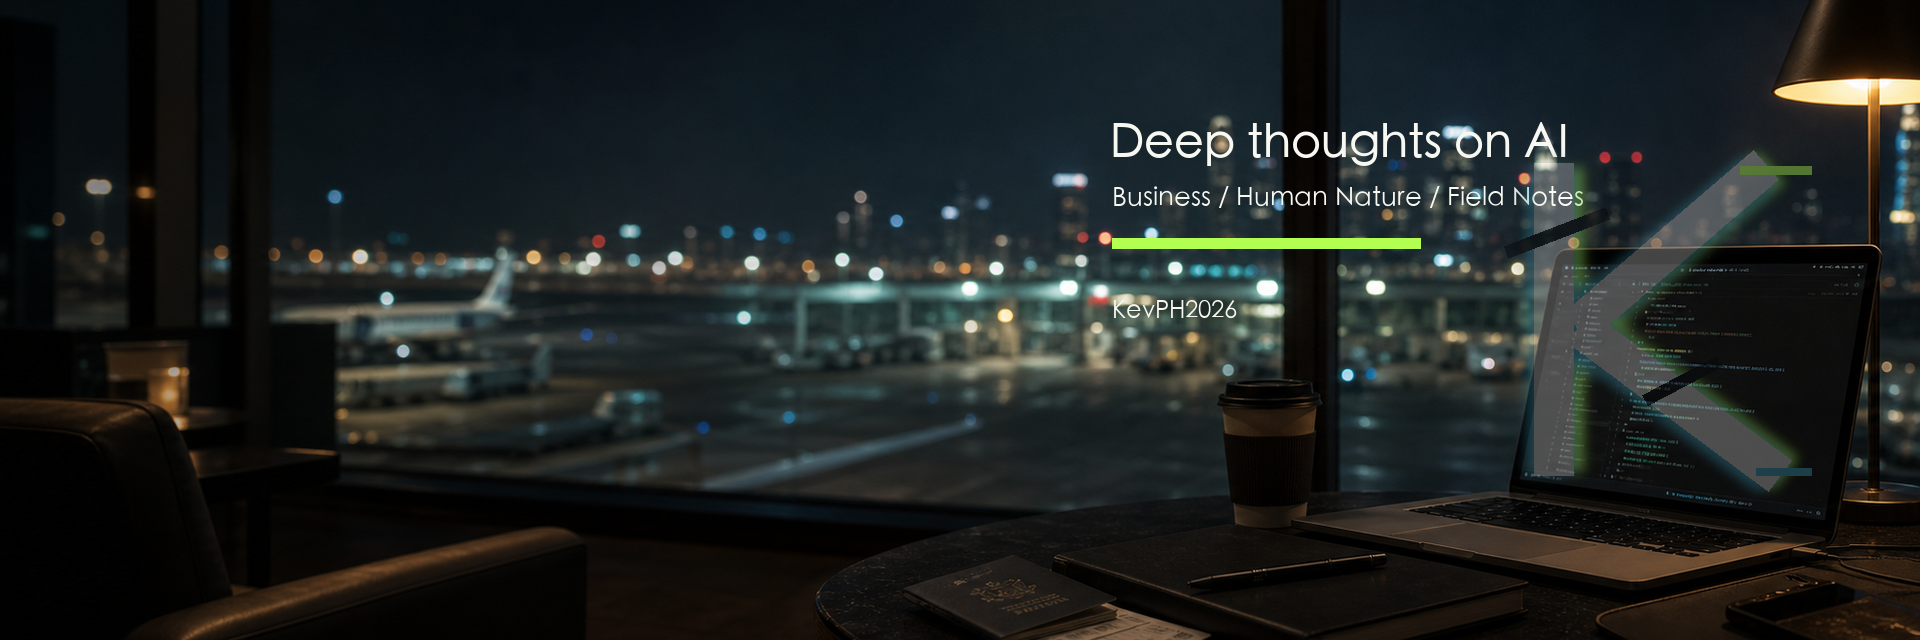
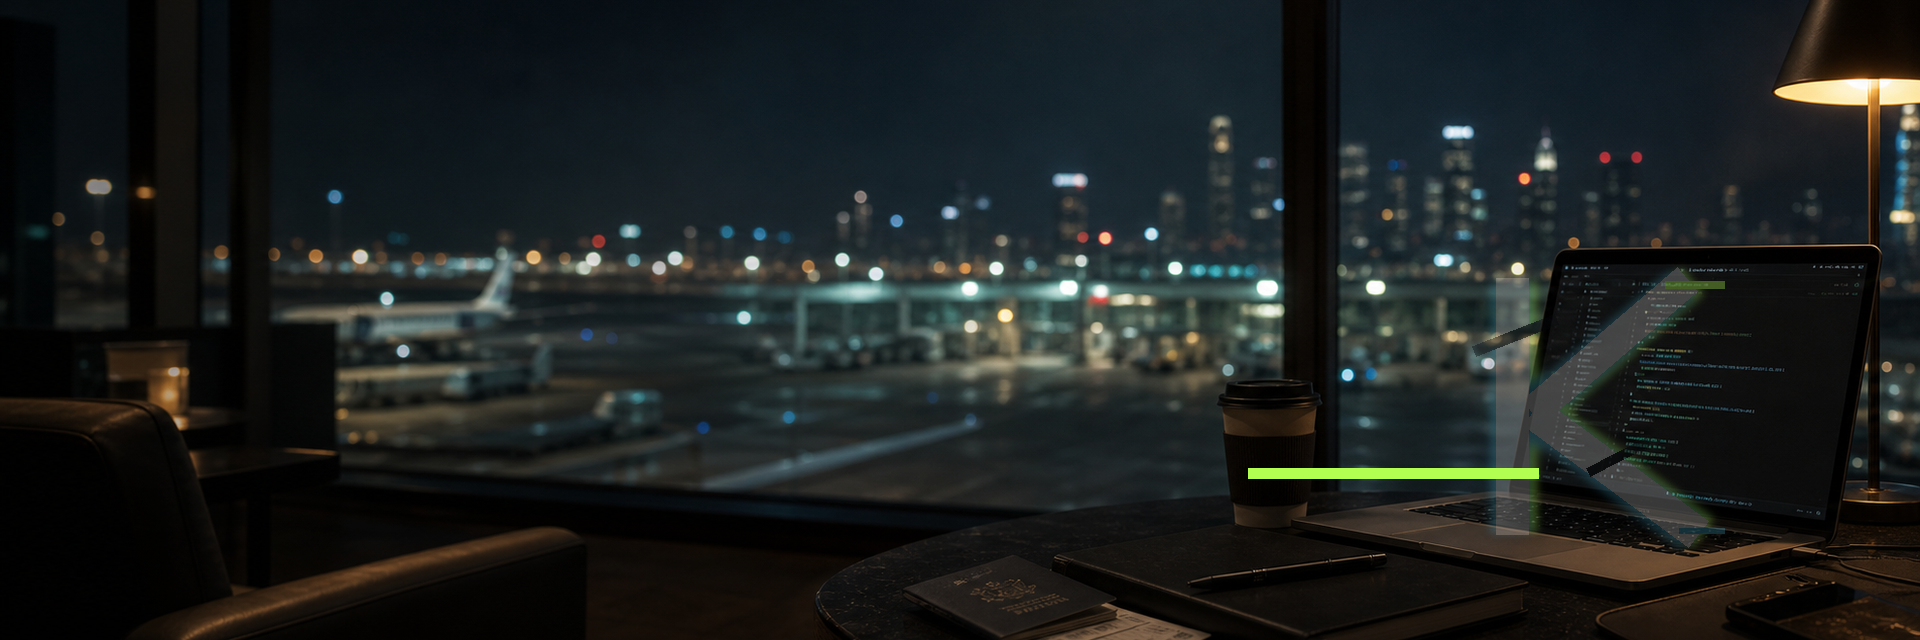
Make profile background mobile safe

Changed region(s): [[0.5625, 0.1875, 0.9375, 0.8438], [0.5625, 0.375, 0.75, 0.4062], [0.5625, 0.4688, 0.6562, 0.5]]

diff --git a/mrk-cover-studio.html b/mrk-cover-studio.html
@@ -426,7 +426,7 @@
         <div class="field" data-field="profileVariant">
           <label for="profileVariant">主页版本</label>
           <select id="profileVariant">
-            <option value="safe">安全区版</option>
+            <option value="safe">移动端安全版（推荐）</option>
             <option value="clean">干净版</option>
           </select>
         </div>
@@ -1111,18 +1111,10 @@
       const h = 640;
       drawCoverImage(activeBg(), 0, 0, w, h);
       drawOverlay(w, h, "profile");
-      if (v.profileVariant === "clean") {
-        drawCutK(1360, 128, 400, "#b2ff52", .29);
-        ctx.fillStyle = "#b2ff52";
-        ctx.fillRect(1060, 402, 338, 11);
-        return;
-      }
-      drawText("Deep thoughts on AI", 1110, 120, 46, 500, "rgba(248,248,242,.9)");
-      drawText("Business / Human Nature / Field Notes", 1112, 184, 26, 400, "rgba(248,248,242,.66)");
-      ctx.fillStyle = "#b2ff52";
-      ctx.fillRect(1112, 238, 308, 10);
-      drawText("KevPH2026", 1112, 298, 24, 400, "rgba(248,248,242,.62)");
-      drawCutK(1460, 124, 390, "#b2ff52", .27);
+      // Keep the top band empty: Douyin mobile UI covers it on the profile page.
+      drawCutK(1436, 246, 320, "#b2ff52", .22);
+      ctx.fillStyle = "rgba(178,255,82,.82)";
+      ctx.fillRect(1248, 468, 290, 10);
     }
 
     function draw() {

diff --git a/douyin-cover-system.html b/douyin-cover-system.html
@@ -320,15 +320,15 @@
     <section class="section">
       <div class="section-head">
         <h2>主页背景</h2>
-        <p class="section-note">左侧留给抖音头像、昵称和简介；视觉识别放右侧。</p>
+        <p class="section-note">顶部和左侧留给抖音头像、昵称和系统按钮；视觉识别放右下侧。</p>
       </div>
       <div class="profile-grid">
         <article>
-          <img class="profile-bg" src="profile-background/mrk-profile-background-safe-1920x640.png?v=cut-k-4" alt="主页背景安全区版">
-          <div class="label">推荐上传：安全区版</div>
+          <img class="profile-bg" src="profile-background/mrk-profile-background-safe-1920x640.png?v=mobile-safe-1" alt="主页背景安全区版">
+          <div class="label">推荐上传：移动端安全版</div>
         </article>
         <article>
-          <img class="profile-bg" src="profile-background/mrk-profile-background-clean-1920x640.png?v=cut-k-4" alt="主页背景干净版">
+          <img class="profile-bg" src="profile-background/mrk-profile-background-clean-1920x640.png?v=mobile-safe-1" alt="主页背景干净版">
           <div class="label">备用：干净版，只保留 K 识别</div>
         </article>
       </div>

diff --git a/make_profile_background.py b/make_profile_background.py
@@ -84,17 +84,16 @@ def make():
 
     safe = add_base_overlay(fit_banner(SRC).convert("RGBA"))
     sd = ImageDraw.Draw(safe)
-    sd.text((1110, 120), "Deep thoughts on AI", font=font(46), fill=(248, 248, 242, 220))
-    sd.text((1112, 184), "Business / Human Nature / Field Notes", font=font(26, False), fill=(248, 248, 242, 158))
-    sd.rectangle((1112, 238, 1420, 248), fill=(178, 255, 82, 235))
-    sd.text((1112, 298), "KevPH2026", font=font(24, False), fill=(248, 248, 242, 150))
-    paste_cut_k(safe, (1460, 124), 390, (178, 255, 82), opacity=0.27)
+    # Douyin mobile overlays status/menu icons on the top band and profile info
+    # on the left/middle. Keep the banner text-free and push identity low-right.
+    paste_cut_k(safe, (1436, 246), 320, (178, 255, 82), opacity=0.22)
+    sd.rectangle((1248, 468, 1538, 478), fill=(178, 255, 82, 210))
     safe.convert("RGB").save(OUT / "mrk-profile-background-safe-1920x640.png", "PNG", optimize=True)
 
     clean = add_base_overlay(fit_banner(SRC).convert("RGBA"))
     cd = ImageDraw.Draw(clean)
-    paste_cut_k(clean, (1360, 128), 400, (178, 255, 82), opacity=0.29)
-    cd.rectangle((1060, 402, 1398, 413), fill=(178, 255, 82, 220))
+    paste_cut_k(clean, (1436, 246), 320, (178, 255, 82), opacity=0.22)
+    cd.rectangle((1248, 468, 1538, 478), fill=(178, 255, 82, 210))
     clean.convert("RGB").save(OUT / "mrk-profile-background-clean-1920x640.png", "PNG", optimize=True)
 
 